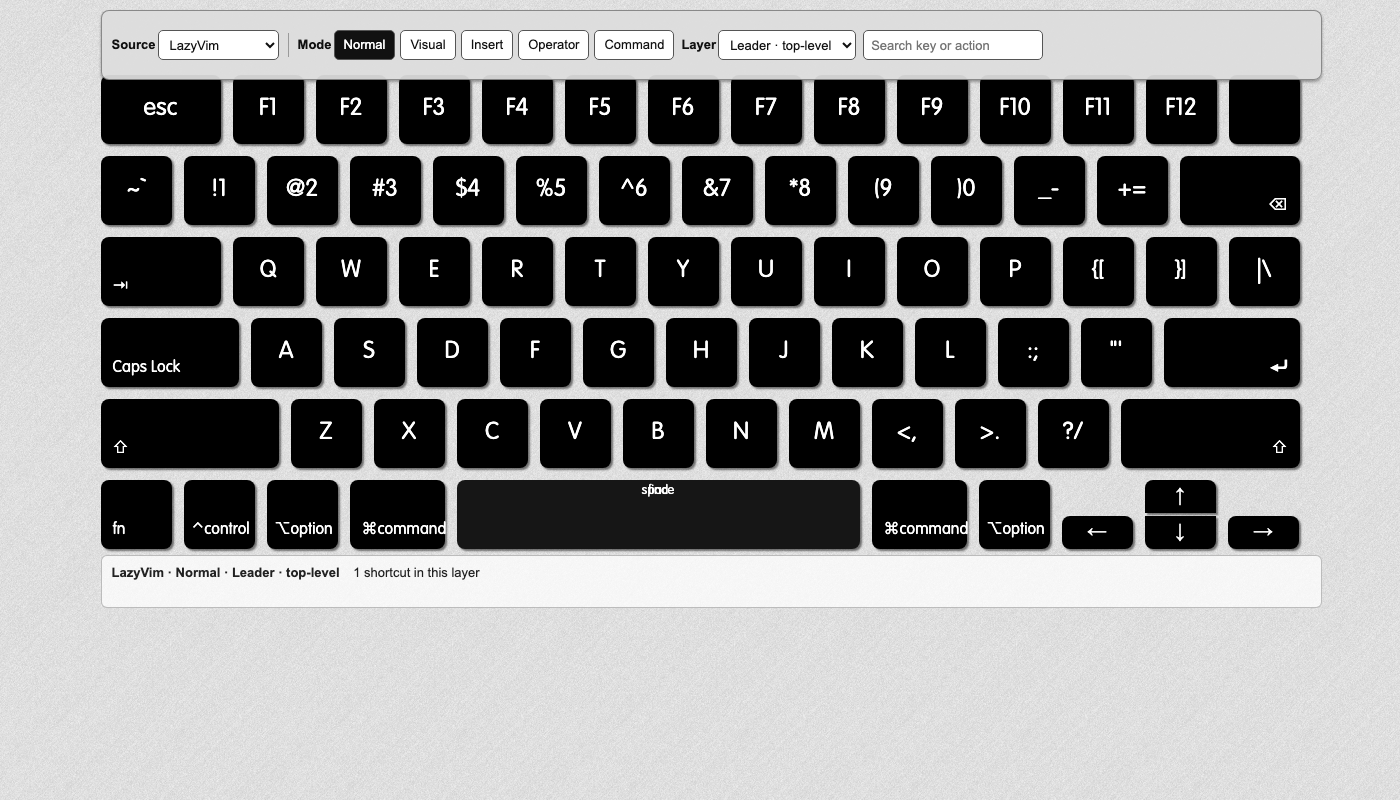
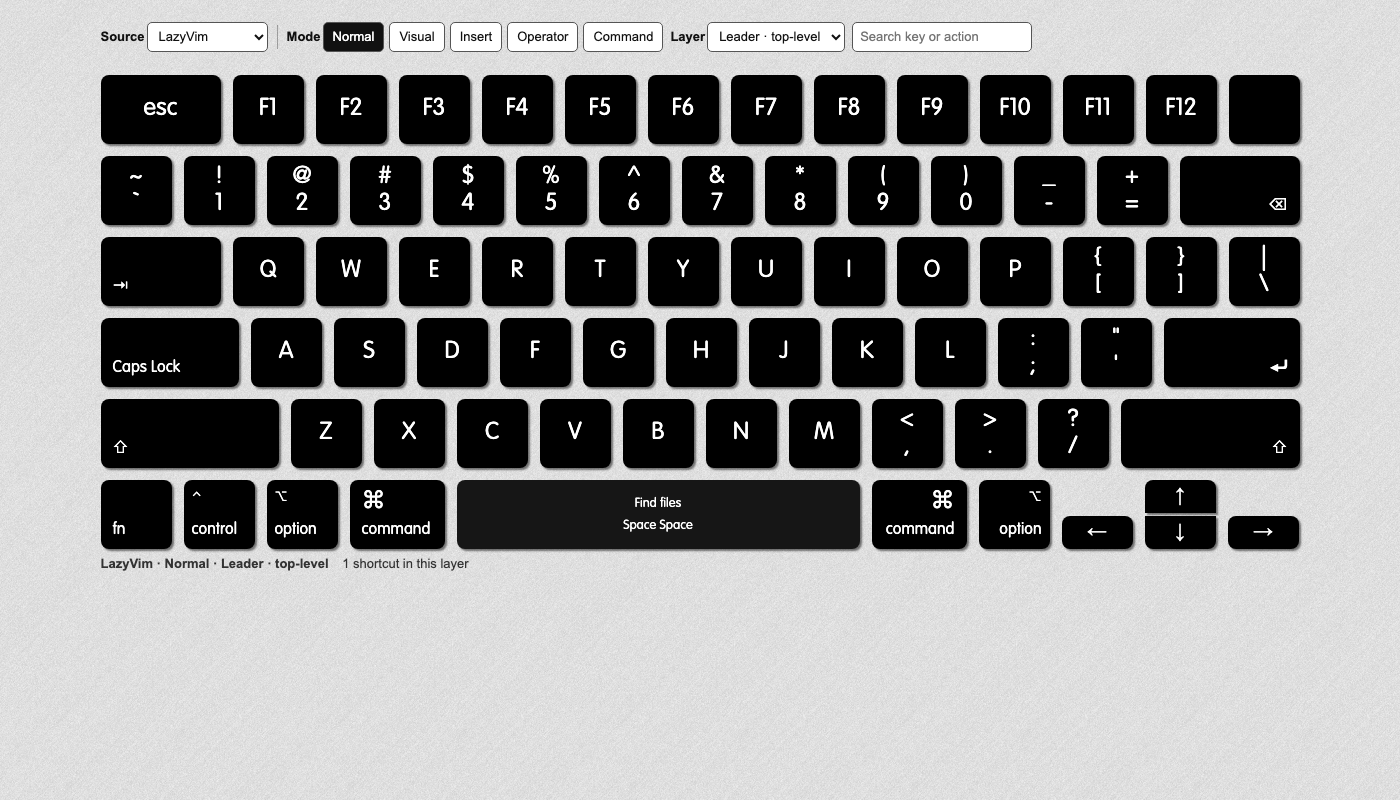
correct keyboard legends and shortcut layers

diff --git a/index.html b/index.html
@@ -49,7 +49,7 @@
     <li id="f10" data-key="f10" data-default="F10">F10</li>
     <li id="f11" data-key="f11" data-default="F11">F11</li>
     <li id="f12" data-key="f12" data-default="F12">F12</li>
-    <li data-key="eject" data-default=""></li>
+    <li id="eject" data-key="eject" data-default=""></li>
 
     <li id="grave" data-key="grave" data-default="~`"><span>~</span>`</li>
     <li id="1" data-key="1" data-default="!1"><span>!</span>1</li>
@@ -127,60 +127,66 @@
 (() => {
   const labels = { n: 'Normal', v: 'Visual', i: 'Insert', o: 'Operator', c: 'Command' };
   const sourceLabels = { local: 'Local', lazy: 'LazyVim', native: 'Neovim Native' };
-  const layerLabels = { base: 'Base', windows: 'Window navigation', 'local-leader': 'Local leader', diagnostics: 'Diagnostics', git: 'Git hunks', 'leader-files': 'Leader · files', 'leader-search': 'Leader · search', 'leader-code': 'Leader · code', 'leader-space': 'Leader · top-level' };
+  const layerLabels = { base: 'Base', windows: 'Window navigation', 'local-leader': 'Local leader', diagnostics: 'Diagnostics', git: 'Git hunks', lsp: 'LSP', visual: 'Visual modes', operators: 'Operators', 'text-objects': 'Text objects', lines: 'Line operations', 'leader-files': 'Leader · files', 'leader-search': 'Leader · search', 'leader-code': 'Leader · code', 'leader-space': 'Leader · top-level' };
   const keys = new Map([...document.querySelectorAll('#keyboard [data-key]')].map(key => [key.dataset.key, key]));
+  const canonicalMarkup = new Map([...keys].map(([keyName, key]) => [keyName, key.innerHTML]));
   const state = { source: 'local', mode: 'n', layer: 'base' };
   const esc = value => String(value).replace(/[&<>"']/g, char => ({ '&': '&amp;', '<': '&lt;', '>': '&gt;', '"': '&quot;', "'": '&#39;' }[char]));
   const entry = (source, mode, layer, key, label, action, sequence) => ({ source, mode, layer, key, label, action, sequence });
   const mappings = [
-    entry('local', 'n', 'base', 'h', ['H'], 'Move to the first non-blank character', 'H'),
-    entry('local', 'n', 'base', 'l', ['L'], 'Move to the end of the line', 'L'),
-    entry('local', 'v', 'base', 'h', ['H'], 'Move selection to the first non-blank character', 'H'),
-    entry('local', 'v', 'base', 'l', ['L'], 'Move selection to the end of the line', 'L'),
-    entry('local', 'n', 'base', 'j', ['J', 'down 5'], 'Move down 5 lines', 'J'),
-    entry('local', 'n', 'base', 'k', ['K', 'up 5'], 'Move up 5 lines', 'K'),
-    entry('local', 'n', 'windows', 'h', ['Ctrl-h'], 'Go to the left window', 'Ctrl-h'),
-    entry('local', 'n', 'windows', 'j', ['Ctrl-j'], 'Go to the lower window', 'Ctrl-j'),
-    entry('local', 'n', 'windows', 'k', ['Ctrl-k'], 'Go to the upper window', 'Ctrl-k'),
-    entry('local', 'n', 'windows', 'l', ['Ctrl-l'], 'Go to the right window', 'Ctrl-l'),
-    entry('local', 'n', 'local-leader', 'v', ['leader v'], 'Enter Visual Block mode', 'Space v'),
-    entry('local', 'n', 'base', 'f7', ['F7', 'next diff'], 'Show the next diff', 'F7'),
-    entry('local', 'n', 'base', 'f12', ['F19', 'prev diff'], 'Show the previous diff; configured as F19', 'F19'),
-    entry('local', 'n', 'local-leader', 'm', ['leader u m'], 'Toggle Markdown rendering', 'Space u m'),
+    entry('local', 'n', 'base', 'h', ['First char', 'H'], 'Move to the first non-blank character', 'H'),
+    entry('local', 'n', 'base', 'l', ['Line end', 'L'], 'Move to the end of the line', 'L'),
+    entry('local', 'v', 'base', 'h', ['First char', 'H'], 'Move selection to the first non-blank character', 'H'),
+    entry('local', 'v', 'base', 'l', ['Line end', 'L'], 'Move selection to the end of the line', 'L'),
+    entry('local', 'n', 'base', 'j', ['Down 5', 'J'], 'Move down 5 lines', 'J'),
+    entry('local', 'n', 'base', 'k', ['Up 5', 'K'], 'Move up 5 lines', 'K'),
+    entry('local', 'n', 'windows', 'h', ['Left win', 'Ctrl-h'], 'Go to the left window', 'Ctrl-h'),
+    entry('local', 'n', 'windows', 'j', ['Lower win', 'Ctrl-j'], 'Go to the lower window', 'Ctrl-j'),
+    entry('local', 'n', 'windows', 'k', ['Upper win', 'Ctrl-k'], 'Go to the upper window', 'Ctrl-k'),
+    entry('local', 'n', 'windows', 'l', ['Right win', 'Ctrl-l'], 'Go to the right window', 'Ctrl-l'),
+    entry('local', 'n', 'local-leader', 'v', ['V block', 'Space v'], 'Enter Visual Block mode', 'Space v'),
+    entry('local', 'n', 'base', 'f7', ['Next diff', 'F7'], 'Show the next diff', 'F7'),
+    entry('local', 'n', 'base', 'eject', ['Prev diff', 'F19'], 'Show the previous diff; configured as F19', 'F19'),
+    entry('local', 'n', 'local-leader', 'm', ['Markdown', 'Space u m'], 'Toggle Markdown rendering', 'Space u m'),
 
-    entry('lazy', 'n', 'base', 'space', ['leader'], 'Open the LazyVim leader namespace', 'Space'),
-    entry('lazy', 'n', 'base', 'g', ['g d'], 'Go to definition', 'g d'),
-    entry('lazy', 'n', 'base', 'k', ['K'], 'Show hover documentation', 'K'),
-    entry('lazy', 'n', 'diagnostics', 'right-bracket', ['] d'], 'Go to the next diagnostic', '] d'),
-    entry('lazy', 'n', 'diagnostics', 'left-bracket', ['[ d'], 'Go to the previous diagnostic', '[ d'),
-    entry('lazy', 'n', 'git', 'right-bracket', ['] h'], 'Go to the next git hunk', '] h'),
-    entry('lazy', 'n', 'git', 'left-bracket', ['[ h'], 'Go to the previous git hunk', '[ h'),
-    entry('lazy', 'n', 'leader-files', 'f', ['f f'], 'Find files with the Snacks picker', 'Space f f'),
-    entry('lazy', 'n', 'leader-files', 'r', ['f r'], 'Open recent files with the picker', 'Space f r'),
-    entry('lazy', 'n', 'leader-files', 'b', ['f b'], 'List open buffers with the picker', 'Space f b'),
-    entry('lazy', 'n', 'leader-files', 'e', ['e'], 'Open the Snacks file explorer', 'Space e'),
-    entry('lazy', 'n', 'leader-search', 'slash', ['/', 'grep'], 'Grep in files with the Snacks picker', 'Space /'),
-    entry('lazy', 'n', 'leader-search', 'g', ['s g'], 'Live grep with the picker', 'Space s g'),
-    entry('lazy', 'n', 'leader-search', 'r', ['s r'], 'Resume the last picker', 'Space s r'),
-    entry('lazy', 'n', 'leader-code', 'a', ['c a'], 'Run a code action', 'Space c a'),
-    entry('lazy', 'n', 'leader-code', 'r', ['c r'], 'Rename the symbol under the cursor', 'Space c r'),
-    entry('lazy', 'n', 'leader-space', 'space', ['space', 'find'], 'Find files with the picker', 'Space Space'),
+    entry('lazy', 'n', 'base', 'space', ['Leader', 'Space'], 'Open the LazyVim leader namespace', 'Space'),
+    entry('lazy', 'n', 'base', 'k', ['Hover', 'K'], 'Show hover documentation', 'K'),
+    entry('lazy', 'n', 'lsp', 'd', ['Definition', 'g d'], 'Go to definition', 'g d'),
+    entry('lazy', 'n', 'lsp', 'r', ['Refs', 'g r'], 'Show references', 'g r'),
+    entry('lazy', 'n', 'diagnostics', 'right-bracket', ['Next diag', '] d'], 'Go to the next diagnostic', '] d'),
+    entry('lazy', 'n', 'diagnostics', 'left-bracket', ['Prev diag', '[ d'], 'Go to the previous diagnostic', '[ d'),
+    entry('lazy', 'n', 'git', 'right-bracket', ['Next hunk', '] h'], 'Go to the next git hunk', '] h'),
+    entry('lazy', 'n', 'git', 'left-bracket', ['Prev hunk', '[ h'], 'Go to the previous git hunk', '[ h'),
+    entry('lazy', 'n', 'leader-files', 'f', ['Find files', 'Space f f'], 'Find files with the Snacks picker', 'Space f f'),
+    entry('lazy', 'n', 'leader-files', 'r', ['Recent files', 'Space f r'], 'Open recent files with the picker', 'Space f r'),
+    entry('lazy', 'n', 'leader-files', 'b', ['Buffers', 'Space f b'], 'List open buffers with the picker', 'Space f b'),
+    entry('lazy', 'n', 'leader-files', 'e', ['Explorer', 'Space e'], 'Open the Snacks file explorer', 'Space e'),
+    entry('lazy', 'n', 'leader-search', 'slash', ['Grep files', 'Space /'], 'Grep in files with the Snacks picker', 'Space /'),
+    entry('lazy', 'n', 'leader-search', 'g', ['Live grep', 'Space s g'], 'Live grep with the picker', 'Space s g'),
+    entry('lazy', 'n', 'leader-search', 'r', ['Resume', 'Space s r'], 'Resume the last picker', 'Space s r'),
+    entry('lazy', 'n', 'leader-code', 'a', ['Code', 'Space c a'], 'Run a code action', 'Space c a'),
+    entry('lazy', 'n', 'leader-code', 'r', ['Rename', 'Space c r'], 'Rename the symbol under the cursor', 'Space c r'),
+    entry('lazy', 'n', 'leader-space', 'space', ['Find files', 'Space Space'], 'Find files with the picker', 'Space Space'),
 
-    entry('native', 'n', 'base', 'i', ['i'], 'Enter Insert mode before the cursor', 'i'),
-    entry('native', 'n', 'base', 'a', ['a'], 'Enter Insert mode after the cursor', 'a'),
-    entry('native', 'n', 'base', 'o', ['o'], 'Open a new line below and Insert', 'o'),
-    entry('native', 'n', 'base', 'v', ['v'], 'Start characterwise Visual mode', 'v'),
-    entry('native', 'n', 'base', 'u', ['u'], 'Undo the last change', 'u'),
-    entry('native', 'n', 'base', 'r', ['Ctrl-r'], 'Redo the last undone change', 'Ctrl-r'),
-    entry('native', 'n', 'base', 'd', ['d'], 'Start the delete operator', 'd'),
-    entry('native', 'n', 'base', 'y', ['y'], 'Start the yank operator', 'y'),
-    entry('native', 'v', 'base', 'v', ['v'], 'Exit Visual mode', 'v'),
-    entry('native', 'v', 'base', 'x', ['x'], 'Delete the selected text', 'x'),
-    entry('native', 'i', 'base', 'esc', ['esc'], 'Return to Normal mode', 'Esc'),
-    entry('native', 'o', 'base', 'w', ['w'], 'Move to the next word as an operator motion', 'w'),
-    entry('native', 'o', 'base', 'd', ['d'], 'Delete through the following motion', 'd'),
-    entry('native', 'c', 'base', 'semicolon', [':'], 'Open the Ex command-line', ':'),
-    entry('native', 'c', 'base', 'slash', ['/'], 'Open the search command-line', '/'),
+    entry('native', 'n', 'base', 'i', ['Insert', 'i'], 'Enter Insert mode before the cursor', 'i'),
+    entry('native', 'n', 'base', 'a', ['Append', 'a'], 'Enter Insert mode after the cursor', 'a'),
+    entry('native', 'n', 'base', 'o', ['Open line', 'o'], 'Open a new line below and Insert', 'o'),
+    entry('native', 'n', 'base', 'u', ['Undo', 'u'], 'Undo the last change', 'u'),
+    entry('native', 'n', 'base', 'r', ['Redo', 'Ctrl-r'], 'Redo the last undone change', 'Ctrl-r'),
+    entry('native', 'v', 'visual', 'v', ['Visual', 'v / V', 'Ctrl-v'], 'Select characterwise, linewise, or blockwise', 'v / V / Ctrl-v'),
+    entry('native', 'v', 'base', 'x', ['Delete', 'x'], 'Delete the selected text', 'x'),
+    entry('native', 'i', 'base', 'esc', ['Normal mode', 'Esc'], 'Return to Normal mode', 'Esc'),
+    entry('native', 'o', 'operators', 'd', ['Delete', 'd'], 'Start the delete operator', 'd'),
+    entry('native', 'o', 'operators', 'c', ['Change', 'c'], 'Start the change operator', 'c'),
+    entry('native', 'o', 'operators', 'y', ['Yank', 'y'], 'Start the yank operator', 'y'),
+    entry('native', 'o', 'text-objects', 'w', ['Word', 'w'], 'Move by a word as an operator motion', 'w'),
+    entry('native', 'o', 'text-objects', 'i', ['Inner', 'i w'], 'Select an inner word text object', 'i w'),
+    entry('native', 'o', 'text-objects', 'a', ['Around', 'a w'], 'Select an around-word text object', 'a w'),
+    entry('native', 'n', 'lines', 'd', ['Del line', 'dd'], 'Delete the current line', 'dd'),
+    entry('native', 'n', 'lines', 'y', ['Yank line', 'yy'], 'Yank the current line', 'yy'),
+    entry('native', 'n', 'lines', 'p', ['Put line', 'p'], 'Put the yanked text after the cursor', 'p'),
+    entry('native', 'c', 'base', 'semicolon', ['Command', ':'], 'Open the Ex command-line', ':'),
+    entry('native', 'c', 'base', 'slash', ['Search', '/'], 'Open the search command-line', '/'),
   ];
 
   const layersFor = () => [...new Set(mappings.filter(item => item.source === state.source && item.mode === state.mode).map(item => item.layer))];
@@ -194,7 +200,7 @@
   const search = document.querySelector('#search');
   const render = () => {
     document.querySelectorAll('#keyboard [data-key]').forEach(key => {
-      key.innerHTML = key.dataset.default === ' ' ? '' : key.dataset.default;
+      key.innerHTML = canonicalMarkup.get(key.dataset.key);
       key.classList.remove('mapped', 'search-dim', 'search-match');
       key.removeAttribute('title');
       key.removeAttribute('aria-label');

diff --git a/css/lazyvim.css b/css/lazyvim.css
@@ -2,20 +2,21 @@
 #controls {
   position: absolute;
   z-index: 10;
-  top: 10px;
+  top: 14px;
   left: 16px;
   box-sizing: border-box;
   width: 1199px;
-  min-height: 52px;
-  padding: 8px 10px;
+  height: 45px;
+  padding: 0;
+
   display: flex;
   align-items: center;
   gap: 7px;
-  flex-wrap: wrap;
-  background: rgba(221, 221, 221, .94);
-  border: 1px solid rgba(0, 0, 0, .38);
-  border-radius: 8px;
-  box-shadow: 0 2px 3px rgba(0, 0, 0, .35);
+  flex-wrap: nowrap;
+  background: transparent;
+  border: 0;
+  border-radius: 0;
+  box-shadow: none;
   font: 13px/1.2 Arial, Helvetica, sans-serif;
   color: #111;
 }
@@ -69,12 +70,8 @@
   left: 16px;
   box-sizing: border-box;
   width: 1199px;
-  min-height: 35px;
-  padding: 8px 10px;
-  color: #222;
-  background: rgba(255, 255, 255, .74);
-  border: 1px solid rgba(0, 0, 0, .24);
-  border-radius: 6px;
+  padding: 0;
+  color: #333;
   font: 13px/1.35 Arial, Helvetica, sans-serif;
 }
 #readout strong {
@@ -82,6 +79,13 @@
 }
 #matches {
   margin-left: 10px;
+}
+#controls .control-group,
+#controls .rule,
+#controls button,
+#controls select,
+#controls input {
+  flex: 0 0 auto;
 }
 #keyboard li.mapped {
   color: #fff;
@@ -133,6 +137,11 @@
   line-height: 22px;
 }
 #keyboard li.special .map-line {
+  position: static;
+  top: auto;
+  right: auto;
+  left: auto;
+  transform: none;
   display: block;
   height: 22px;
   line-height: 22px;
